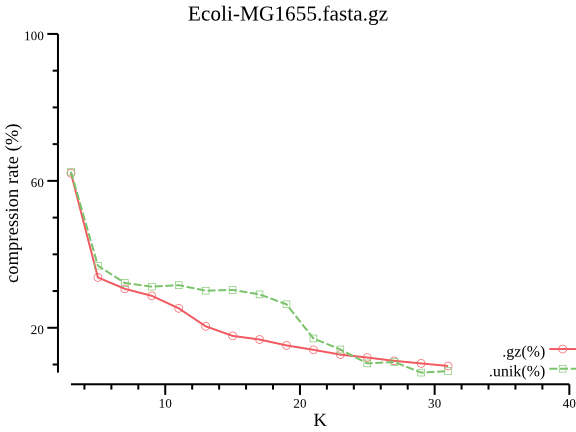
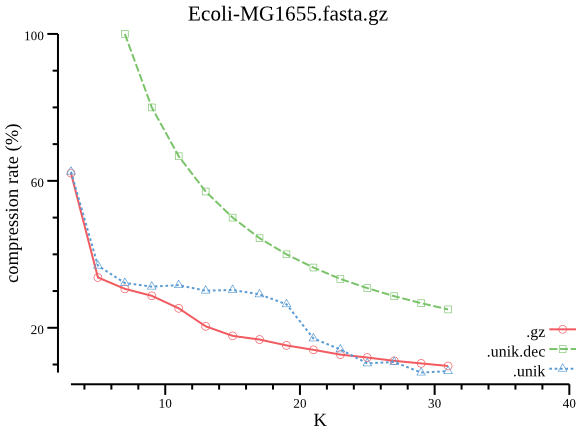
update compression rate comparison

diff --git a/README.md b/README.md
@@ -52,30 +52,32 @@ Kmers are saved in gzipped binary file with file extension `.unik`.
 Here's the compression rate comparison with `gzip`.
 Plain text of Kmers are exported by `unikmer view` and
 compressed by `gzip` (default parameters).
+Decompressed `.unik` (`.unik.dec`) format is also compared.
 
     $ ./compression-rates.sh Ecoli-MG1655.fasta.gz > compression-rates.tsv
     $ csvtk -t pretty compression-rates.tsv
-    K    plain       .gz        .unik      .gz(%)    .unik(%)
-    1    8           64         69         800.000   862.500
-    3    256         159        160        62.109    62.500
-    5    6144        2070       2267       33.691    36.898
-    7    131072      40153      42178      30.634    32.179
-    9    2596420     744013     811277     28.655    31.246
-    11   35092056    8862922    11083277   25.256    31.583
-    13   107877000   22057558   32476722   20.447    30.105
-    15   142791328   25348131   43253150   17.752    30.291
-    17   163085652   27351927   47477859   16.772    29.112
-    19   181600840   27560992   47963931   15.177    26.412
-    21   199931204   27939876   34248156   13.975    17.130
-    23   218238336   27757535   30860501   12.719    14.141
-    25   236543320   28206395   24413804   11.924    10.321
-    27   254849280   28019791   27276395   10.995    10.703
-    29   273158820   28261557   21435152   10.346    7.847
-    31   291473216   28052530   23774695   9.624     8.157
+    K    plain       .gz        .unik.dec   .unik      .gz(%)   .unik.dec(%)   .unik(%)
+    1    8           64         64          69         800.0    800.0          862.5
+    3    256         159        544         160        62.1     212.5          62.5
+    5    6144        2070       8224        2267       33.7     133.9          36.9
+    7    131072      40153      131104      42178      30.6     100.0          32.2
+    9    2596420     744013     2077168     811277     28.7     80.0           31.2
+    11   35092056    8862922    23394736    11083277   25.3     66.7           31.6
+    13   107877000   22057558   61644032    32476722   20.4     57.1           30.1
+    15   142791328   25348131   71395696    43253150   17.8     50.0           30.3
+    17   163085652   27351927   72482544    47477859   16.8     44.4           29.1
+    19   181600840   27560992   72640368    47963931   15.2     40.0           26.4
+    21   199931204   27939876   72702288    34248156   14.0     36.4           17.1
+    23   218238336   27757535   72746144    30860501   12.7     33.3           14.1
+    25   236543320   28206395   72782592    24413804   11.9     30.8           10.3
+    27   254849280   28019791   72814112    27276395   11.0     28.6           10.7
+    29   273158820   28261557   72842384    21435152   10.3     26.7           7.8
+    31   291473216   28052530   72868336    23774695   9.6      25.0           8.2
 
     # plot
-    $ csvtk cut -t -f 1,5,6  compression-rates.tsv \
-        | csvtk -t gather  -k group  -v value -f 2,3 \
+    $ csvtk cut -t -f 1,6-8  compression-rates.tsv \
+        | csvtk -t rename2 -f 2-4 -p "\(%\)" \
+        | csvtk -t gather  -k group  -v value -f 2-4 \
         | csvtk plot line -t -x 1 -y 3 -g 2 \
             --x-min 3 --x-max 40  --y-max 100 --ylab "compression rate (%)" \
             --title Ecoli-MG1655.fasta.gz \
